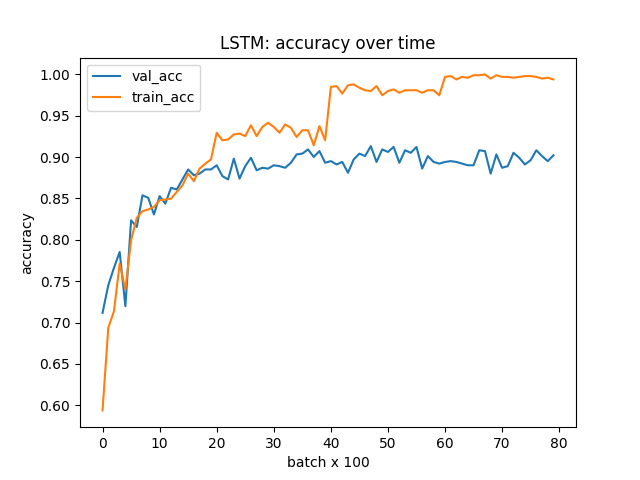
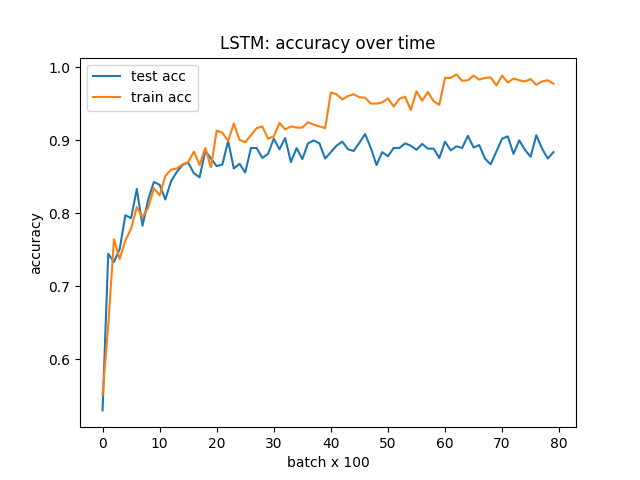
ready for handing in

diff --git a/Q1-Q4.py b/Q1-Q4.py
@@ -11,7 +11,7 @@ from tqdm import tqdm
 device = torch.device('cpu')
 
 # load iMDB data
-(x_train, y_train), (x_val, y_val), (i2w, w2i), numcls = load_imdb(final=False)
+(x_train, y_train), (x_val, y_val), (i2w, w2i), numcls = load_imdb(final=True) # for val set final to false
 # every x is a list of words, every y is a single int label
 
 # add start and end tokens to every x
@@ -33,8 +33,10 @@ y_val = [torch.tensor(y, device=device) for y in y_val_sorted]
 # get max sequence length
 maxlen = max(len(x) for x in x_train)
 print(f'max sequence length of train: {maxlen}')
+print('average sequence length of train:', sum(len(x) for x in x_train) / len(x_train))
 maxlen = max(len(x) for x in x_val)
 print(f'max sequence length of val: {maxlen}')
+print(f'average sequence length of val:', sum(len(x) for x in x_val) / len(x_val))
 
 batch_size = 32
 
@@ -194,16 +196,20 @@ def training_loop(n_epochs, optimizer, model, loss_fn, train_loader, val_loader,
                     val_acc.append(correct / total)
                     val_loss.append(val_running_loss / plot_interval)
 
-    plt.plot(val_acc, label='val_acc')
-    plt.plot(train_acc, label='train_acc')
+    print(f'Finished Training {model.__class__.__name__}')
+    print('final train acc:', train_acc[-1])
+    print('final test acc:', val_acc[-1])
+
+    plt.plot(val_acc, label='test acc')
+    plt.plot(train_acc, label='train acc')
     plt.title(f'{model.__class__.__name__}: accuracy over time')
     plt.xlabel('batch x 100')
     plt.ylabel('accuracy')
     plt.legend()
     plt.show()
 
-    plt.plot(val_loss, label='val_loss')
-    plt.plot(train_loss, label='train_loss')
+    plt.plot(val_loss, label='test loss')
+    plt.plot(train_loss, label='train loss')
     plt.title(f'{model.__class__.__name__}: loss over time')
     plt.xlabel('batch x 100')
     plt.ylabel('loss')
@@ -218,7 +224,8 @@ def training_loop(n_epochs, optimizer, model, loss_fn, train_loader, val_loader,
 
 
 n_epochs = 4
-lr = 0.001
+lr = 0.0005
+
 
 ### MLP ###
 model = MLP(len(i2w), embedding_dim=300, hidden_dim=300, outsize=2)
